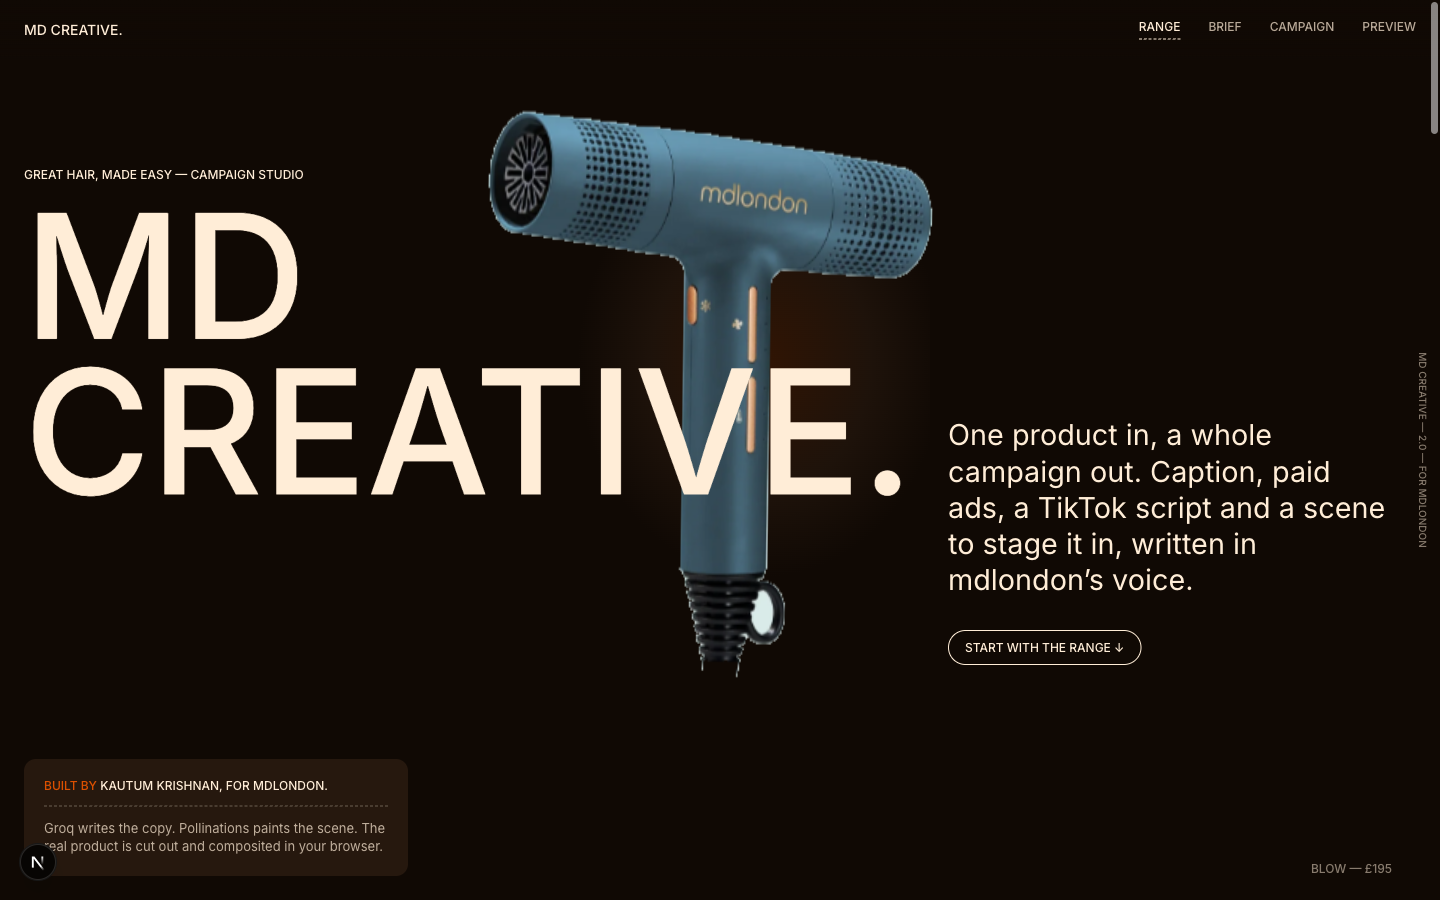
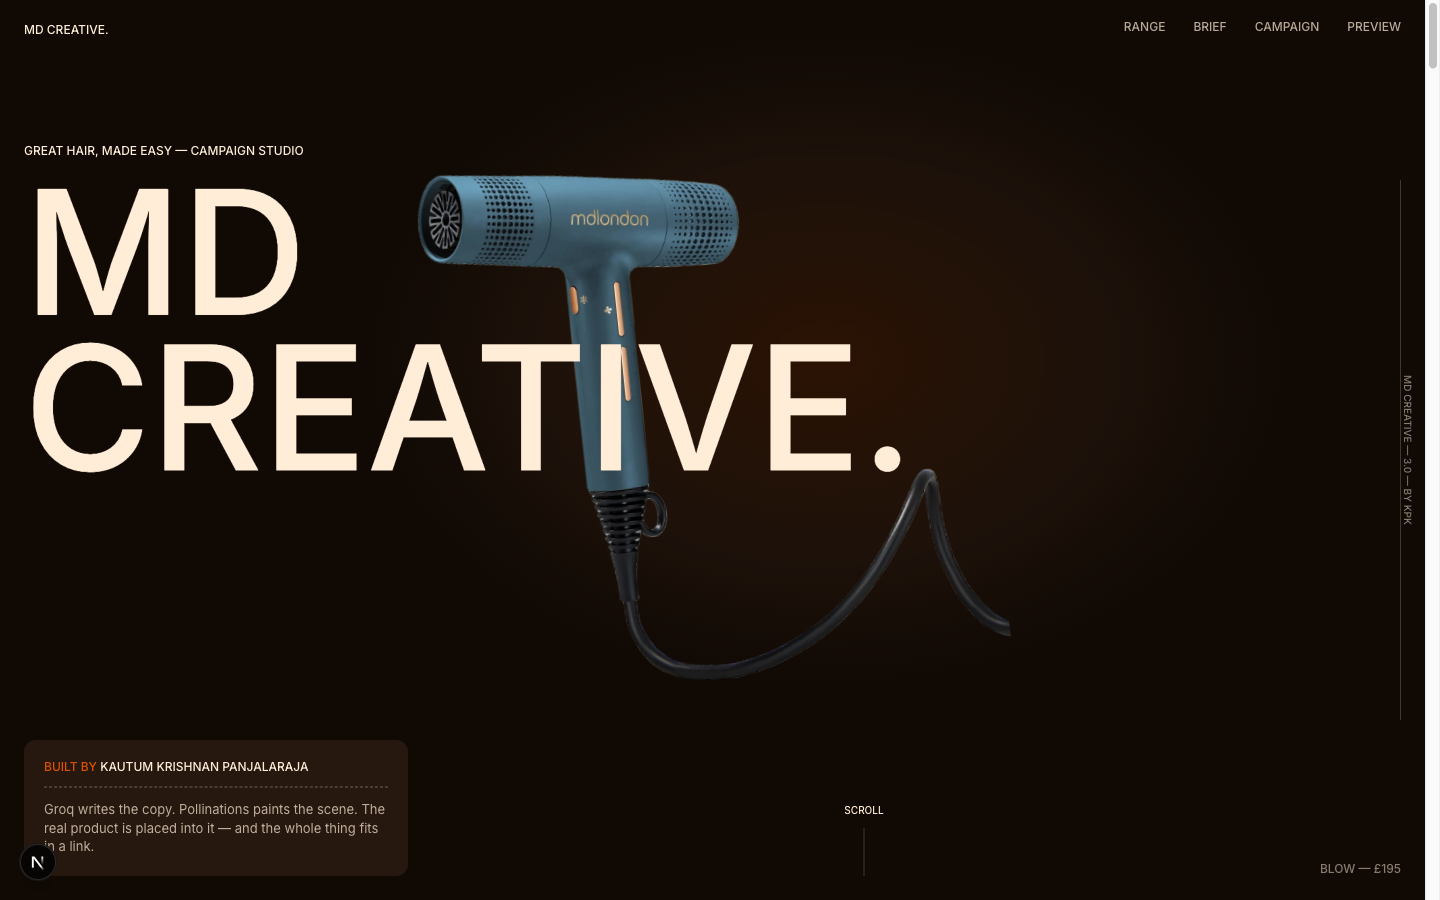
docs: README and screenshots for 3.0; hide capsule once a campaign is on screen

diff --git a/components/SelectionCapsule.tsx b/components/SelectionCapsule.tsx
@@ -16,11 +16,13 @@ export default function SelectionCapsule({
   products,
   hasVibe,
   isGenerating,
+  hasCampaign,
   onGenerate,
 }: {
   products: Product[];
   hasVibe: boolean;
   isGenerating: boolean;
+  hasCampaign: boolean;
   onGenerate: () => void;
 }) {
   const [briefInView, setBriefInView] = useState(false);
@@ -36,7 +38,9 @@ export default function SelectionCapsule({
   }, []);
 
   const total = products.reduce((sum, p) => sum + p.price, 0);
-  const visible = products.length > 0 && !briefInView;
+  // Once a campaign is on screen it has its own controls; the capsule's job
+  // (getting you from a selection to a campaign) is done.
+  const visible = products.length > 0 && !briefInView && !hasCampaign;
 
   return (
     <AnimatePresence>

diff --git a/app/page.tsx b/app/page.tsx
@@ -502,6 +502,7 @@ export default function Home() {
         products={selectedProducts}
         hasVibe={!!selectedVibe}
         isGenerating={isGenerating}
+        hasCampaign={showCampaign}
         onGenerate={handleGenerate}
       />
     </div>

diff --git a/README.md b/README.md
@@ -4,7 +4,7 @@
 
 **AI-powered social content generator for mdlondon**
 
-*Built by [Kautum Krishnan](https://github.com/kautum) as part of a job application
+*Built by [Kautum Krishnan Panjalaraja (KPK)](https://github.com/kautum) as part of a job application
 for the Junior AI Developer role at [mdlondon](https://mdlondon.com)*
 
 ![Next.js](https://img.shields.io/badge/Next.js_16-black?style=flat-square&logo=next.js)
@@ -20,6 +20,52 @@ for the Junior AI Developer role at [mdlondon](https://mdlondon.com)*
 </div>
 
 ---
+
+## What's new in 3.0
+
+![The scroll story](public/screenshots/story.png)
+
+**An experience, not a form.** 3.0 borrows its motion vocabulary from the four
+reference design systems in `designs/`. The base is the warm-dark darkroom system.
+On top of it sit Dala's particle constellation, Apple's pinned scroll storytelling
+and floating price capsule, and Mercury's frosted nav.
+
+- **Pinned hero story.** The product assembles from a constellation of particles
+  sampled from its own pixels. Scrolling then carries it through three chapters: one
+  product in; a whole campaign out, where it dissolves and real copy bursts from it;
+  and staged on a plinth. Scroll is spring-smoothed, and the product tilts toward
+  the mouse.
+- **The range as a gallery.** On desktop the section pins and vertical scroll
+  drives the product track sideways. On touch it's a swipe carousel with snap
+  points.
+- **Selection capsule.** Once you pick something, a floating pill follows you with
+  thumbnails, the running £ total and a one-tap Generate.
+- **Campaign reveal.** While the scene paints, the lead product breathes as a
+  constellation. The finished scene then wipes in with scroll parallax, and the
+  phone mockups swing in from either side as you scroll.
+
+**Product images, rebuilt.** The in-browser flood-fill cutout (700px, hard edges,
+bleeding into low-contrast products) is replaced by `scripts/make_cutouts.py`. It
+runs BiRefNet segmentation on the 2048px source images, decontaminates the colour
+of semi-transparent edge pixels so nothing haloes on the dark canvas, and ships
+tight-cropped WebPs. All 12 total 984KB.
+
+**New features**
+- **Share link.** The whole campaign is deflated into the URL fragment (about 2KB),
+  with no backend and no account. Every field is re-validated when the link is
+  opened, and a damaged link is rejected with a message.
+- **Brand check.** Each campaign is scored against the brand voice's hard rules:
+  ≤6-word short ad, ≤20-word caption, 8–10 hashtags including #MDLONDON, no banned
+  words, and more. `npm test` runs it against the brand guide's own good and bad
+  examples.
+- **Smart brief.** The vibes and hair concerns your selection is made for are
+  marked ✦. That product data existed in 1.0 and 2.0 but was never shown.
+- **⌘/Ctrl + Enter** generates from anywhere on the page.
+
+**Fixed:** scenes could contain people. The old "beauty lifestyle photography"
+prompt made the free-tier model paint a model, including a sexualised figure in
+testing. Scenes are now framed as empty sets, with a negative prompt and
+Pollinations' safety filter on.
 
 ## What's new in 2.0
 
@@ -182,6 +228,10 @@ saturated scenes, making products near-invisible.
 
 The approach used in production:
 
+> **3.0:** steps 1–2 below described the original browser flood-fill. Cutouts are
+> now generated offline with an AI segmentation model (see *What's new in 3.0*); the
+> real-scale layout and contact shadows are unchanged.
+
 1. **Background removal via border flood-fill.** The algorithm starts from the image
    border, flood-fills connected near-background pixels (neighbour tolerance = 8),
    and removes them. This handles both products on pure-white backgrounds *and* products
@@ -245,8 +295,8 @@ content, not polished ad voiceover.
 | LLM (text) | Groq + gpt-oss-120b | Free tier, fast inference, least formulaic copy of the free models tested |
 | LLM (fallback) | Groq + gpt-oss-20b | Same model family and params, more rate-limit headroom |
 | Image generation | Pollinations.ai (flux) | Completely free, no API key, browser-loadable URL |
-| Compositing | Browser canvas + flood-fill | Zero cost, no external API; cutout quality sufficient for Tier 1/2 |
-| Animation | CSS + Framer Motion | Reveal stagger, typewriter, drifting hero object; all respect reduced motion |
+| Cutouts | BiRefNet via rembg, offline | Soft alpha matte from 2048px sources, colour-decontaminated edges; static WebPs |
+| Motion | Framer Motion + canvas | Scroll-scrubbed stages, particle constellation, spring smoothing; all respect reduced motion |
 | Fonts | Inter (ss01) | Free stand-in for Halyard Display, the face the design system was measured on |
 | Hosting | Vercel | Free tier, auto-deploys from GitHub; the Groq call finishes well within the function timeout |
 
@@ -318,7 +368,7 @@ mdlondon's team would extend it with:
 
 ## About this project
 
-Built by **Kautum Krishnan** — final-year MSc Data Science student at King's College
+Built by **Kautum Krishnan Panjalaraja (KPK)** — final-year MSc Data Science student at King's College
 London, with a background in building production LLM automation systems at Celcom Solutions.
 
 This tool was built specifically as a job application submission for the Junior AI
